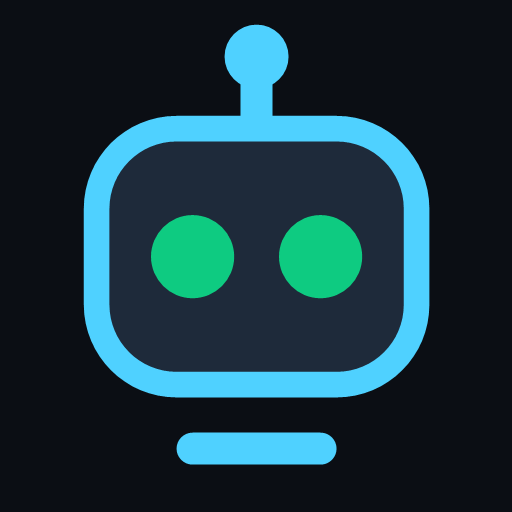
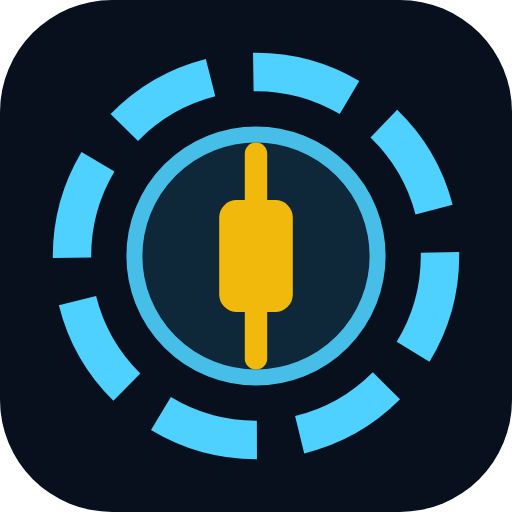
Rebrand to Arc Analyst and add the trading-analyst rulebook
The app is now Arc Analyst: arc-reactor logo, new favicon and app icons,
navy and gold colors. The AI Analyst panel gains an Arc rulebook section
built from the trading-analyst skill: 1% fixed-fractional risk, quarter
Kelly only with 30+ backtest trades, a 10% single-position cap, and the
smallest size wins. Adds payoffRatio to backtest stats and a v0.7.0
What's new entry.

Claude-Session: https://claude.ai/code/session_0173NY5YRTuJ11tW2oT5TSHm

diff --git a/src/lib/rulebook.ts b/src/lib/rulebook.ts
@@ -1,0 +1,96 @@
+/**
+ * Arc Analyst rulebook: the position-sizing and edge checks from the
+ * trading-analyst skill (github.com/agiprolabs/claude-trading-skills, MIT).
+ *
+ * Sizing ladder: compute fixed-fractional, quarter-Kelly and a single-position
+ * cap, then take the smallest and say which rule set it. Negative Kelly means no
+ * measured edge, so the plan is paper-only research. Not financial advice.
+ */
+import type { Analysis, BacktestStats } from '../types'
+import { fmtUsd } from './format'
+
+/** Fixed-fractional risk per trade (the skill's "conservative" band is 0.5-1%). */
+export const RISK_PCT = 0.01
+/** Never full Kelly: edge estimates are noisy. */
+export const KELLY_FRACTION = 0.25
+/** Single position at most ~10% of the account. */
+export const MAX_POSITION_PCT = 0.1
+/** Under this many backtest trades the win rate is noise, not a track record. */
+export const MIN_TRADES = 30
+
+export type Binding = 'risk' | 'edge' | 'cap'
+
+export interface RuleCheck {
+  rule: string
+  pass: boolean
+  detail: string
+}
+
+export interface Sizing {
+  shares: number
+  value: number
+  riskAmount: number
+  binding: Binding
+  kelly: number | null
+  checks: RuleCheck[]
+}
+
+/** Kelly fraction f* = (p*b - q) / b, or null when the inputs are missing. */
+export function kelly(winRate: number, payoff: number): number | null {
+  if (payoff <= 0 || winRate <= 0) return null
+  return (winRate * payoff - (1 - winRate)) / payoff
+}
+
+export function sizePlan(a: Analysis, stats: BacktestStats, equity: number): Sizing | null {
+  if (!a.plan || equity <= 0) return null
+  const { entry, stop } = a.plan
+  const perShareRisk = Math.abs(entry - stop)
+  if (perShareRisk <= 0 || entry <= 0) return null
+
+  const riskAmount = equity * RISK_PCT
+  const byRisk = riskAmount / perShareRisk
+  const byCap = (equity * MAX_POSITION_PCT) / entry
+  const enoughTrades = stats.trades >= MIN_TRADES
+  const k = kelly(stats.winRate, stats.payoffRatio)
+  // Quarter-Kelly as a share of the account; only trusted with enough trades.
+  const byEdge = enoughTrades && k != null ? (Math.max(0, k) * KELLY_FRACTION * equity) / entry : Infinity
+
+  const options: [Binding, number][] = [
+    ['risk', byRisk],
+    ['edge', byEdge],
+    ['cap', byCap],
+  ]
+  const [binding, raw] = options.reduce((m, o) => (o[1] < m[1] ? o : m))
+  // Whole shares when that is meaningful, otherwise fractional (crypto, small accounts).
+  const shares = raw >= 10 ? Math.floor(raw) : Math.floor(raw * 1000) / 1000
+
+  const checks: RuleCheck[] = [
+    {
+      rule: 'Risk 1% per trade',
+      pass: true,
+      detail: `Losing at the stop costs about ${fmtUsd(riskAmount)} of a ${fmtUsd(equity)} account.`,
+    },
+    {
+      rule: 'Measured edge',
+      pass: enoughTrades && k != null && k > 0,
+      detail: !enoughTrades
+        ? `Only ${stats.trades} backtest trades on this chart; ${MIN_TRADES} are needed before the edge counts.`
+        : k == null || k <= 0
+          ? 'Past signals here lost more than they won (Kelly is negative). No proven edge, so paper only.'
+          : `Kelly says ${(k * 100).toFixed(0)}% of the account; the analyst uses a quarter of that.`,
+    },
+    {
+      rule: 'Max 10% in one position',
+      pass: binding !== 'cap' || byRisk <= byCap,
+      detail: binding === 'cap' ? `Size trimmed to ${fmtUsd(equity * MAX_POSITION_PCT)}, 10% of the account.` : `At most ${fmtUsd(equity * MAX_POSITION_PCT)} in one position.`,
+    },
+  ]
+
+  return { shares, value: shares * entry, riskAmount, binding, kelly: k, checks }
+}
+
+export const BINDING_TEXT: Record<Binding, string> = {
+  risk: 'the 1% risk rule',
+  edge: 'the measured edge (quarter Kelly)',
+  cap: 'the 10% position cap',
+}

diff --git a/src/components/AnalystPanel.tsx b/src/components/AnalystPanel.tsx
@@ -1,5 +1,6 @@
 import type { Analysis, BacktestStats, Signal } from '../types'
 import { planText } from '../lib/analyst'
+import { BINDING_TEXT, sizePlan } from '../lib/rulebook'
 import { fmtPct, fmtPrice, fmtTime, tone } from '../lib/format'
 import { RobotIcon } from './RobotIcon'
 import { InfoTip } from './InfoTip'
@@ -10,12 +11,13 @@ interface Props {
   lastSignal: Signal | null
   symbol: string
   tfLabel: string
+  equity: number
   onTrade: () => void
 }
 
 const ICON = { bull: '▲', bear: '▼', neutral: '•' }
 
-export function AnalystPanel({ analysis: a, stats, lastSignal, symbol, tfLabel, onTrade }: Props) {
+export function AnalystPanel({ analysis: a, stats, lastSignal, symbol, tfLabel, equity, onTrade }: Props) {
   if (!a) {
     return (
       <div className="analyst">
@@ -26,6 +28,7 @@ export function AnalystPanel({ analysis: a, stats, lastSignal, symbol, tfLabel, 
       </div>
     )
   }
+  const sizing = sizePlan(a, stats, equity)
   const side = a.verdict === 'BUY' ? 'buy' : a.verdict === 'SELL' ? 'sell' : undefined
   return (
     <div className="analyst">
@@ -33,7 +36,7 @@ export function AnalystPanel({ analysis: a, stats, lastSignal, symbol, tfLabel, 
         <RobotIcon side={side} size={44} />
         <div className="verdict-main">
           <span className="verdict-sub">
-            AI view on {symbol} · {tfLabel} chart
+            Arc view on {symbol} · {tfLabel} chart
           </span>
           <span className="verdict-word">{a.verdict}</span>
         </div>
@@ -89,6 +92,28 @@ export function AnalystPanel({ analysis: a, stats, lastSignal, symbol, tfLabel, 
         )}
       </div>
 
+      {sizing && (
+        <div className="rulebook">
+          <div className="section-title">
+            Arc rulebook <InfoTip text="Position-sizing and edge checks from the trading-analyst skill: risk 1% per trade, quarter Kelly only with a measured edge, at most 10% in one stock. The smallest size wins." />
+          </div>
+          <p>
+            Paper size: <b className="mono">{sizing.shares}</b> {symbol} (≈ ${fmtPrice(sizing.value, 0)}), set by {BINDING_TEXT[sizing.binding]}.
+          </p>
+          <ul>
+            {sizing.checks.map((c) => (
+              <li key={c.rule} className={c.pass ? 'pass' : 'fail'}>
+                <span>{c.pass ? '✓' : '!'}</span>
+                <div>
+                  <b>{c.rule}</b>
+                  <span>{c.detail}</span>
+                </div>
+              </li>
+            ))}
+          </ul>
+        </div>
+      )}
+
       <p className="track">{a.trackRecord}</p>
 
       {lastSignal && (
@@ -135,7 +160,7 @@ export function AnalystPanel({ analysis: a, stats, lastSignal, symbol, tfLabel, 
         </div>
       </details>
 
-      <p className="disclaimer">Not financial advice. This is an automated read of price and volume patterns, which often fail. Only trade money you can afford to lose.</p>
+      <p className="disclaimer">Research, not advice. Arc Analyst is an automated read of price and volume patterns, which often fail. Only trade money you can afford to lose.</p>
     </div>
   )
 }

diff --git a/src/index.css b/src/index.css
@@ -1,9 +1,9 @@
 :root {
-  --bg: #07090d;
-  --panel: #0f131a;
-  --panel-2: #141922;
-  --line: #1c222d;
-  --line-2: #262d3a;
+  --bg: #060b14;
+  --panel: #0d1420;
+  --panel-2: #121b29;
+  --line: #1a2434;
+  --line-2: #243043;
   --text: #e6e9ef;
   --muted: #7d8699;
   --up: #0ecb81;
@@ -60,7 +60,11 @@ a { color: var(--robot); }
 /* ---------- top bar ---------- */
 .topbar { display: flex; align-items: center; gap: 14px; padding: 0 6px; border-bottom: 1px solid var(--line); margin: 0 -6px; padding: 0 12px; background: #0a0d12; }
 .brand { display: flex; align-items: center; gap: 8px; padding-right: 14px; border-right: 1px solid var(--line); }
-.brand b { display: block; font-size: 14px; letter-spacing: 0.02em; }
+.brand b { display: block; font-size: 14px; letter-spacing: 0.02em; background: linear-gradient(90deg, var(--robot), var(--gold)); -webkit-background-clip: text; background-clip: text; color: transparent; }
+.arc-logo { flex: none; filter: drop-shadow(0 0 6px rgba(79, 209, 255, 0.45)); }
+.arc-ring { transform-origin: 16px 16px; animation: arc-spin 24s linear infinite; }
+@keyframes arc-spin { to { transform: rotate(360deg); } }
+@media (prefers-reduced-motion: reduce) { .arc-ring { animation: none; } }
 .brand span { display: block; font-size: 10px; color: var(--muted); text-transform: uppercase; letter-spacing: 0.14em; }
 .ticker { display: flex; align-items: baseline; gap: 14px; min-width: 0; flex: 1; overflow: hidden; white-space: nowrap; }
 .ticker-sym b { font-size: 15px; }
@@ -231,6 +235,16 @@ a { color: var(--robot); }
 .plan-grid div { background: var(--panel-2); border-radius: 6px; padding: 6px 8px; }
 .plan-grid span { display: block; font-size: 10px; color: var(--muted); font-family: Inter, sans-serif; }
 .plan-grid b { font-size: 12px; font-weight: 600; }
+.rulebook { margin: 12px 14px 0; padding: 10px 12px; border: 1px solid var(--line-2); border-radius: var(--radius); background: rgba(79, 209, 255, 0.04); font-size: 12px; }
+.rulebook .section-title { margin: 0 0 6px; padding: 0; }
+.rulebook p { margin: 0 0 8px; line-height: 1.5; }
+.rulebook ul { list-style: none; margin: 0; padding: 0; display: grid; gap: 6px; }
+.rulebook li { display: flex; gap: 8px; align-items: flex-start; }
+.rulebook li > span { width: 16px; flex: none; font-weight: 700; text-align: center; }
+.rulebook li.pass > span { color: var(--up); }
+.rulebook li.fail > span { color: var(--gold); }
+.rulebook li b { display: block; font-size: 12px; }
+.rulebook li div span { color: var(--muted); font-size: 11.5px; line-height: 1.45; }
 .track { margin: 12px 14px 0; font-size: 11.5px; color: var(--muted); line-height: 1.5; padding-left: 10px; border-left: 2px solid var(--robot); }
 .last-signal { margin: 12px 14px 0 !important; }
 .bt { margin: 12px 14px 0; border: 1px solid var(--line); border-radius: 8px; padding: 8px 10px; }

diff --git a/src/data/releases.ts b/src/data/releases.ts
@@ -2,7 +2,7 @@
  * Version and "What's new". Bump APP_VERSION and add an entry to the top of RELEASES
  * with each update. The banner shows once per version, then stays dismissed.
  */
-export const APP_VERSION = '0.6.0'
+export const APP_VERSION = '0.7.0'
 
 export interface Release {
   version: string
@@ -13,6 +13,22 @@ export interface Release {
 }
 
 export const RELEASES: Release[] = [
+  {
+    version: '0.7.0',
+    date: '2026-10-09',
+    changes: [
+      'Bluechip is now Arc Analyst: new arc-reactor logo, app icon and navy and gold colors.',
+      'The AI Analyst now follows the trading-analyst skill rulebook: risk 1% per trade, quarter Kelly only when the edge is measured, at most 10% in one stock.',
+      'Each BUY or SELL call shows a paper position size and which rule set it. With no proven edge, the size is zero.',
+      'Research, not promises. Paper trading only.',
+    ],
+    changesVi: [
+      'Bluechip nay là Arc Analyst: logo lò phản ứng hồ quang mới, biểu tượng ứng dụng và màu xanh navy với vàng.',
+      'Phân tích AI giờ tuân theo bộ quy tắc của kỹ năng trading-analyst: rủi ro 1% mỗi giao dịch, chỉ dùng một phần tư Kelly khi lợi thế đã được đo, tối đa 10% cho một mã.',
+      'Mỗi khuyến nghị mua hoặc bán hiển thị khối lượng giao dịch thử nghiệm và quy tắc nào quyết định nó. Khi chưa có lợi thế được chứng minh, khối lượng là 0.',
+      'Nghiên cứu, không hứa hẹn. Chỉ giao dịch thử nghiệm.',
+    ],
+  },
   {
     version: '0.6.0',
     date: '2026-10-09',

diff --git a/src/lib/strategy.ts b/src/lib/strategy.ts
@@ -1,5 +1,5 @@
 /**
- * Bluechip prediction engine.
+ * Arc Analyst prediction engine.
  *
  * A walk-forward online logistic regression learns P(close[t+H] > close[t]) from a
  * handful of normalised technical features. It only ever trains on bars whose
@@ -186,6 +186,10 @@ export function runStrategy(candles: Candle[], cfg: StrategyConfig = DEFAULT_CON
   if (inPos) equity *= close[n - 1] / entry
 
   const firstIdx = probSeries.findIndex((p) => p != null)
+  const winRets = tradeRets.filter((r) => r > 0)
+  const lossRets = tradeRets.filter((r) => r <= 0)
+  const avgWin = winRets.length ? winRets.reduce((a, b) => a + b, 0) / winRets.length : 0
+  const avgLoss = lossRets.length ? -lossRets.reduce((a, b) => a + b, 0) / lossRets.length : 0
   const stats: BacktestStats = {
     trades: tradeRets.length,
     winRate: tradeRets.length ? tradeRets.filter((r) => r > 0).length / tradeRets.length : 0,
@@ -193,6 +197,7 @@ export function runStrategy(candles: Candle[], cfg: StrategyConfig = DEFAULT_CON
     buyHoldPct: firstIdx >= 0 ? (close[n - 1] / close[firstIdx] - 1) * 100 : 0,
     maxDrawdownPct: maxDd * 100,
     avgTradePct: tradeRets.length ? (tradeRets.reduce((a, b) => a + b, 0) / tradeRets.length) * 100 : 0,
+    payoffRatio: avgWin > 0 && avgLoss > 0 ? avgWin / avgLoss : 0,
     modelAccuracy: graded ? correct / graded : 0,
   }
 

diff --git a/src/App.tsx b/src/App.tsx
@@ -186,7 +186,7 @@ export default function App() {
   const tfLabel = TIMEFRAMES.find((t) => t.id === prefs.tf)!.label
 
   useEffect(() => {
-    document.title = lastClose ? `${inst.symbol} ${lastClose.toLocaleString('en-US', { maximumFractionDigits: 2 })} · Bluechip` : 'Bluechip Terminal'
+    document.title = lastClose ? `${inst.symbol} ${lastClose.toLocaleString('en-US', { maximumFractionDigits: 2 })} · Arc Analyst` : 'Arc Analyst'
   }, [inst.symbol, lastClose])
 
   const select = (symbol: string) => setPrefs((p) => ({ ...p, symbol }))
@@ -282,7 +282,7 @@ export default function App() {
               </button>
             </div>
             <div className="right-body">
-              {rightTab === 'ai' && <AnalystPanel analysis={analysis} stats={closed.stats} lastSignal={lastSignal} symbol={inst.symbol} tfLabel={tfLabel} onTrade={() => setRightTab('trade')} />}
+              {rightTab === 'ai' && <AnalystPanel analysis={analysis} stats={closed.stats} lastSignal={lastSignal} symbol={inst.symbol} tfLabel={tfLabel} equity={broker.account.equity} onTrade={() => setRightTab('trade')} />}
               {rightTab === 'flow' && <OrderFlowPanel flow={flow} last={lastClose} />}
               {rightTab === 'learn' && <LearningPanel />}
               {rightTab === 'picks' && (

diff --git a/index.html b/index.html
@@ -6,15 +6,15 @@
     <link rel="manifest" href="./manifest.webmanifest" />
     <link rel="apple-touch-icon" href="./apple-touch-icon.png" />
     <meta name="viewport" content="width=device-width, initial-scale=1.0, viewport-fit=cover" />
-    <meta name="theme-color" content="#0b0e14" />
+    <meta name="theme-color" content="#07101c" />
     <meta name="apple-mobile-web-app-capable" content="yes" />
     <meta name="mobile-web-app-capable" content="yes" />
     <meta name="apple-mobile-web-app-status-bar-style" content="black-translucent" />
-    <meta name="apple-mobile-web-app-title" content="Bluechip" />
+    <meta name="apple-mobile-web-app-title" content="Arc Analyst" />
     <link rel="preconnect" href="https://fonts.googleapis.com" />
     <link rel="preconnect" href="https://fonts.gstatic.com" crossorigin />
     <link href="https://fonts.googleapis.com/css2?family=Inter:wght@400;500;600;700&family=JetBrains+Mono:wght@400;500;600&display=swap" rel="stylesheet" />
-    <title>Bluechip Terminal</title>
+    <title>Arc Analyst</title>
   </head>
   <body>
     <div id="root"></div>

diff --git a/src/components/RobotIcon.tsx b/src/components/RobotIcon.tsx
@@ -1,10 +1,10 @@
 import type { SignalSide } from '../types'
 
-/** The "Bluechip" mini robot used for chart markers and branding. */
+/** The Arc Analyst mini robot used for chart markers and branding. */
 export function RobotIcon({ side, size = 28, title }: { side?: SignalSide; size?: number; title?: string }) {
   const accent = side === 'buy' ? 'var(--up)' : side === 'sell' ? 'var(--down)' : 'var(--robot)'
   return (
-    <svg width={size} height={size} viewBox="0 0 32 32" role="img" aria-label={title ?? 'Bluechip robot'} className="robot-svg">
+    <svg width={size} height={size} viewBox="0 0 32 32" role="img" aria-label={title ?? 'Arc Analyst robot'} className="robot-svg">
       {title && <title>{title}</title>}
       <line x1="16" y1="2.5" x2="16" y2="7" stroke={accent} strokeWidth="1.8" strokeLinecap="round" />
       <circle cx="16" cy="3" r="2.2" fill={accent} className="robot-antenna" />

diff --git a/src/components/TopBar.tsx b/src/components/TopBar.tsx
@@ -1,6 +1,7 @@
 import type { Analysis, FeedStatus, Instrument, Quote, Timeframe } from '../types'
 import { TIMEFRAMES } from '../types'
 import { fmtCompact, fmtPct, fmtPrice, fmtSigned, fmtUsd, tone } from '../lib/format'
+import { ArcLogo } from './ArcLogo'
 import { RobotIcon } from './RobotIcon'
 import { useT } from '../lib/i18n'
 
@@ -33,10 +34,10 @@ export function TopBar({ inst, quote, lastPrice, tf, onTf, status, source, error
   return (
     <header className="topbar">
       <div className="brand">
-        <RobotIcon size={26} />
+        <ArcLogo size={28} />
         <div>
-          <b>Bluechip</b>
-          <span>Terminal</span>
+          <b>Arc Analyst</b>
+          <span>Research, not promises</span>
         </div>
       </div>
       <nav className="nav">

diff --git a/src/components/ArcLogo.tsx b/src/components/ArcLogo.tsx
@@ -1,0 +1,11 @@
+/** Arc Analyst mark: an arc-reactor ring with a candlestick at its core. */
+export function ArcLogo({ size = 28 }: { size?: number }) {
+  return (
+    <svg width={size} height={size} viewBox="0 0 32 32" role="img" aria-label="Arc Analyst" className="arc-logo">
+      <circle cx="16" cy="16" r="13" fill="none" stroke="var(--robot)" strokeWidth="2.4" strokeDasharray="7.2 3" className="arc-ring" />
+      <circle cx="16" cy="16" r="8.6" fill="rgba(79, 209, 255, 0.12)" stroke="var(--robot)" strokeWidth="1" opacity="0.7" />
+      <line x1="16" y1="8.8" x2="16" y2="23.2" stroke="var(--gold)" strokeWidth="1.4" strokeLinecap="round" />
+      <rect x="13.4" y="12" width="5.2" height="8" rx="1.2" fill="var(--gold)" />
+    </svg>
+  )
+}

diff --git a/src/components/ChartPanel.tsx b/src/components/ChartPanel.tsx
@@ -319,7 +319,7 @@ export function ChartPanel(props: Props) {
             <div className="robot-tip">
               <div className="robot-tip-head">
                 <RobotIcon side={sig.side} size={16} />
-                <b>{sig.side === 'buy' ? 'Bluechip BUY' : 'Bluechip SELL'}</b>
+                <b>{sig.side === 'buy' ? 'Arc BUY' : 'Arc SELL'}</b>
                 <span>{fmtTime(sig.time)}</span>
               </div>
               <div className="robot-tip-row">

diff --git a/src/lib/analyst.ts b/src/lib/analyst.ts
@@ -1,5 +1,5 @@
 /**
- * Bluechip AI analyst: turns indicators, real order flow and the model's own
+ * Arc Analyst: turns indicators, real order flow and the model's own
  * track record into a plain-English BUY / HOLD / SELL call.
  *
  * Confidence is deliberately discounted by how well the model actually did on
